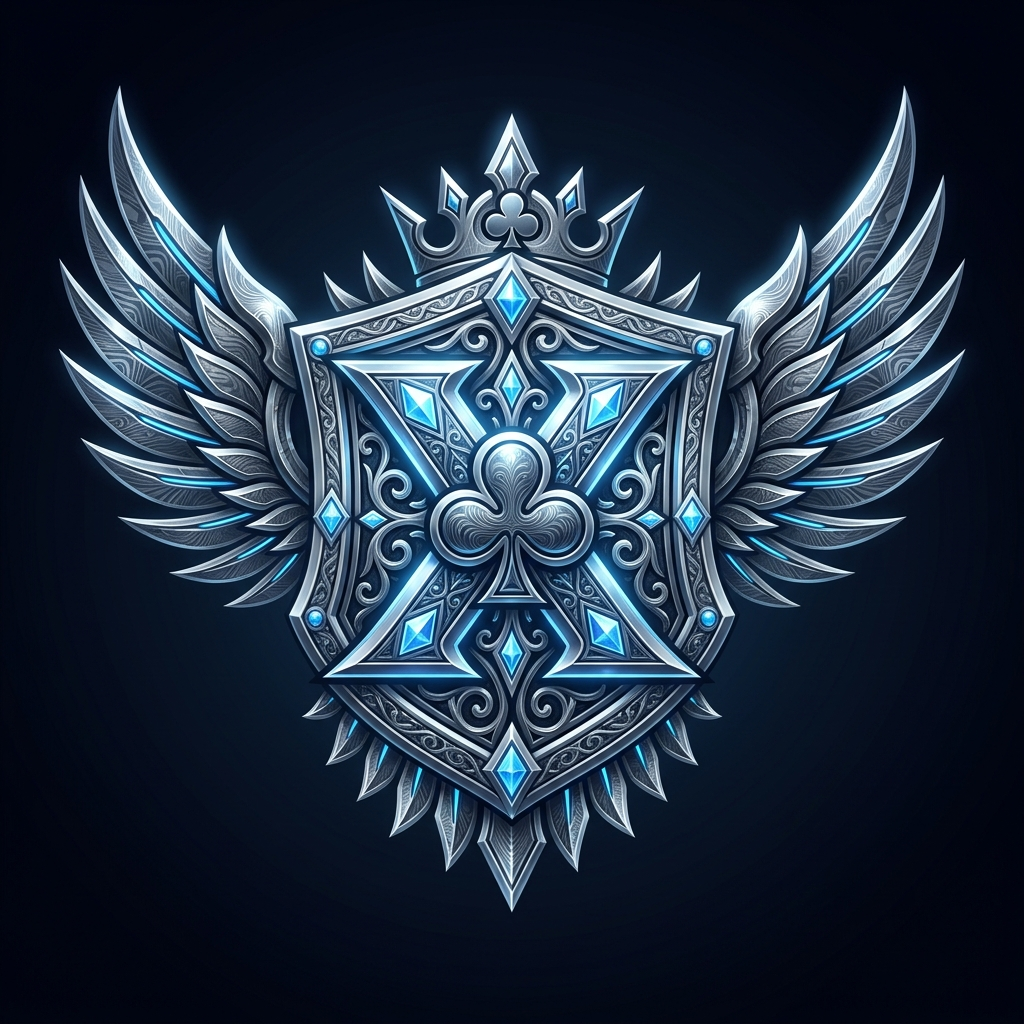
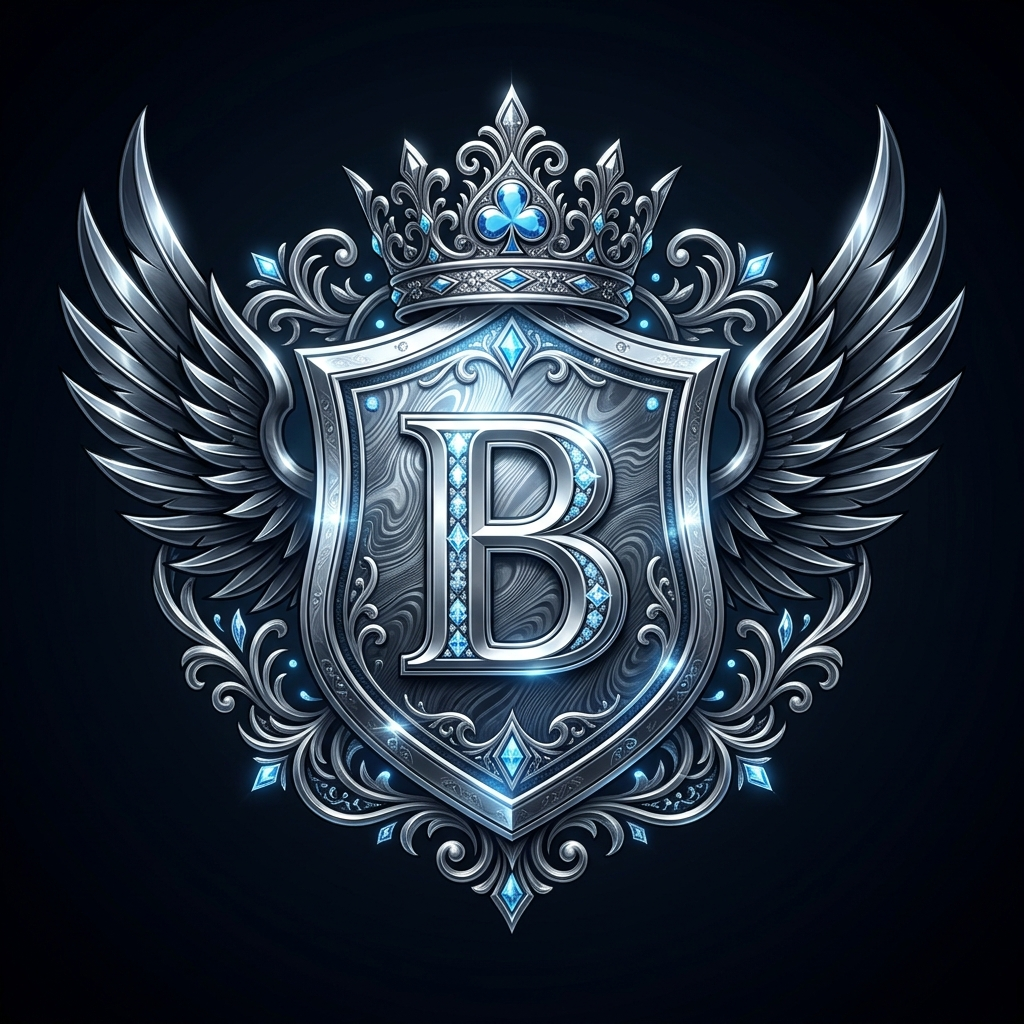
feat(ranked): Rename Bronze/Silver ranks to Copper Squire (S) and Silver Baron (B) with bespoke emblems to eliminate Roman numeral division confusion

diff --git a/src/components/RankBadge.tsx b/src/components/RankBadge.tsx
@@ -48,15 +48,15 @@ export const RANK_INFO: Record<RankTier, RankTierMetadata> = {
   '9': {
     tier: '9',
     weight: 1,
-    name: 'Copper IX',
-    shortName: '9 Rank',
-    monogram: 'IX',
+    name: 'Copper Squire',
+    shortName: 'Squire',
+    monogram: 'S',
     title: 'Tavern Trickster',
     suitSymbol: '♠',
-    lore: 'Forged in candlelit backroom tables where every trick is earned in blood and copper.',
+    lore: 'Forged in candlelit backroom tables where initiates earn their spurs in copper and blood.',
     rewardSummary: 'Starter Crest • Iron Rim Card Back',
     promotionSeals: 50,
-    imageUrl: '/assets/ranks/rank_tier_9.jpg',
+    imageUrl: '/assets/ranks/rank_tier_squire.jpg',
     color: '#e08a44',
     accentColor: '#fbbf24',
     border: '#c26d2d',
@@ -67,15 +67,15 @@ export const RANK_INFO: Record<RankTier, RankTierMetadata> = {
   '10': {
     tier: '10',
     weight: 2,
-    name: 'Silver X',
-    shortName: '10 Rank',
-    monogram: 'X',
+    name: 'Silver Baron',
+    shortName: 'Baron',
+    monogram: 'B',
     title: 'Table Enforcer',
     suitSymbol: '♣',
-    lore: 'Cold Damascus steel and frost-cut diamonds for tacticians who punish weak trump calls.',
+    lore: 'Cold Damascus steel and frost-cut diamonds for noble tacticians who punish weak trump calls.',
     rewardSummary: '+75 Wax Seals • Iron Rim Card Back',
     promotionSeals: 75,
-    imageUrl: '/assets/ranks/rank_tier_10.jpg',
+    imageUrl: '/assets/ranks/rank_tier_baron.jpg',
     color: '#e2e8f0',
     accentColor: '#38bdf8',
     border: '#94a3b8',

diff --git a/src/components/LeaderboardModal.tsx b/src/components/LeaderboardModal.tsx
@@ -561,7 +561,7 @@ export const LeaderboardModal: React.FC<LeaderboardModalProps> = ({
                     : 'bg-slate-950/40 border-slate-800/80 opacity-60'
                 }`}
               >
-                <div className="text-[10px] font-bold text-slate-400 uppercase">Copper IX &amp; Silver X</div>
+                <div className="text-[10px] font-bold text-slate-400 uppercase">Squire &amp; Baron</div>
                 <div className="text-xs font-black text-slate-200 mt-0.5">Iron Rim Back</div>
                 <div className="text-[10px] font-bold mt-1 text-emerald-400 flex items-center justify-center gap-0.5">
                   {isIronEarned ? (
@@ -569,7 +569,7 @@ export const LeaderboardModal: React.FC<LeaderboardModalProps> = ({
                       <Check className="w-3 h-3" /> Unlocked
                     </>
                   ) : (
-                    'Reach Copper IX'
+                    'Reach Copper Squire'
                   )}
                 </div>
               </div>

diff --git a/server/__tests__/ranked_revamp_and_leaderboard.test.ts b/server/__tests__/ranked_revamp_and_leaderboard.test.ts
@@ -24,9 +24,12 @@ function createTestPostgresPool() {
 
 describe('Season 2 Sovereign Hierarchy Ranked System & Leaderboard Filter', () => {
   it('defines bespoke metadata, emblems, titles, and 100-LP divisions (III -> II -> I) for all 6 Sovereign Tiers', () => {
-    expect(RANK_INFO['9'].name).toBe('Copper IX');
-    expect(RANK_INFO['9'].imageUrl).toContain('rank_tier_9.jpg');
-    expect(RANK_INFO['10'].name).toBe('Silver X');
+    expect(RANK_INFO['9'].name).toBe('Copper Squire');
+    expect(RANK_INFO['9'].monogram).toBe('S');
+    expect(RANK_INFO['9'].imageUrl).toContain('rank_tier_squire.jpg');
+    expect(RANK_INFO['10'].name).toBe('Silver Baron');
+    expect(RANK_INFO['10'].monogram).toBe('B');
+    expect(RANK_INFO['10'].imageUrl).toContain('rank_tier_baron.jpg');
     expect(RANK_INFO['Q'].name).toBe('Verdant Queen');
     expect(RANK_INFO['K'].name).toBe('Crimson King');
     expect(RANK_INFO['A'].name).toBe('Astral Ace');
